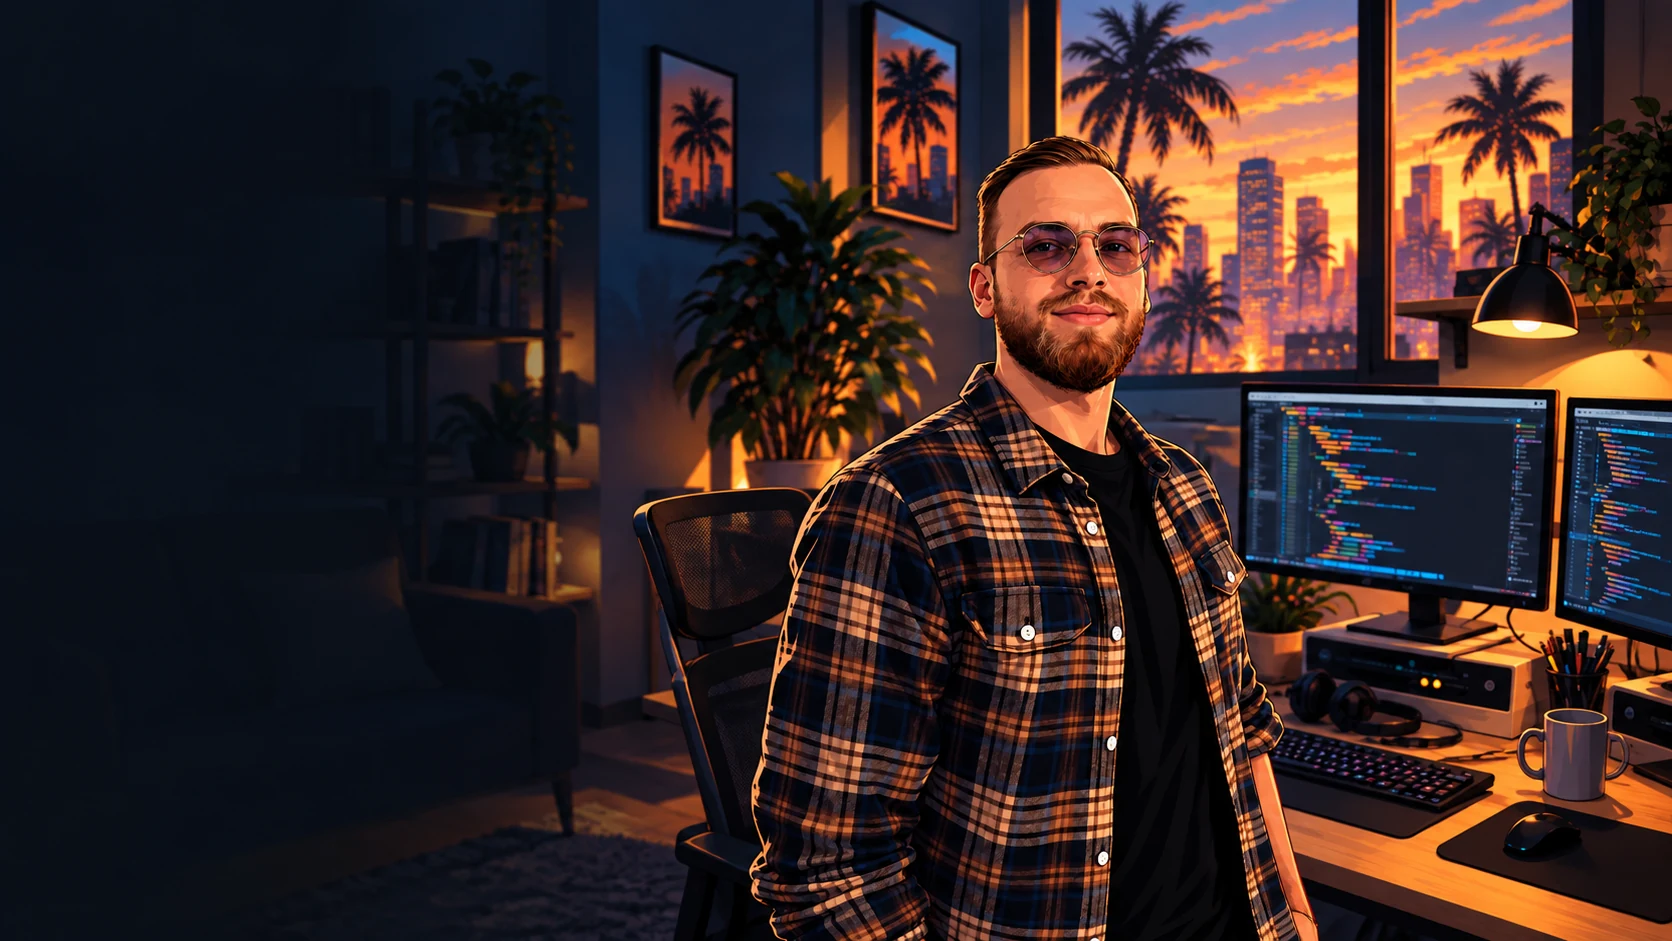
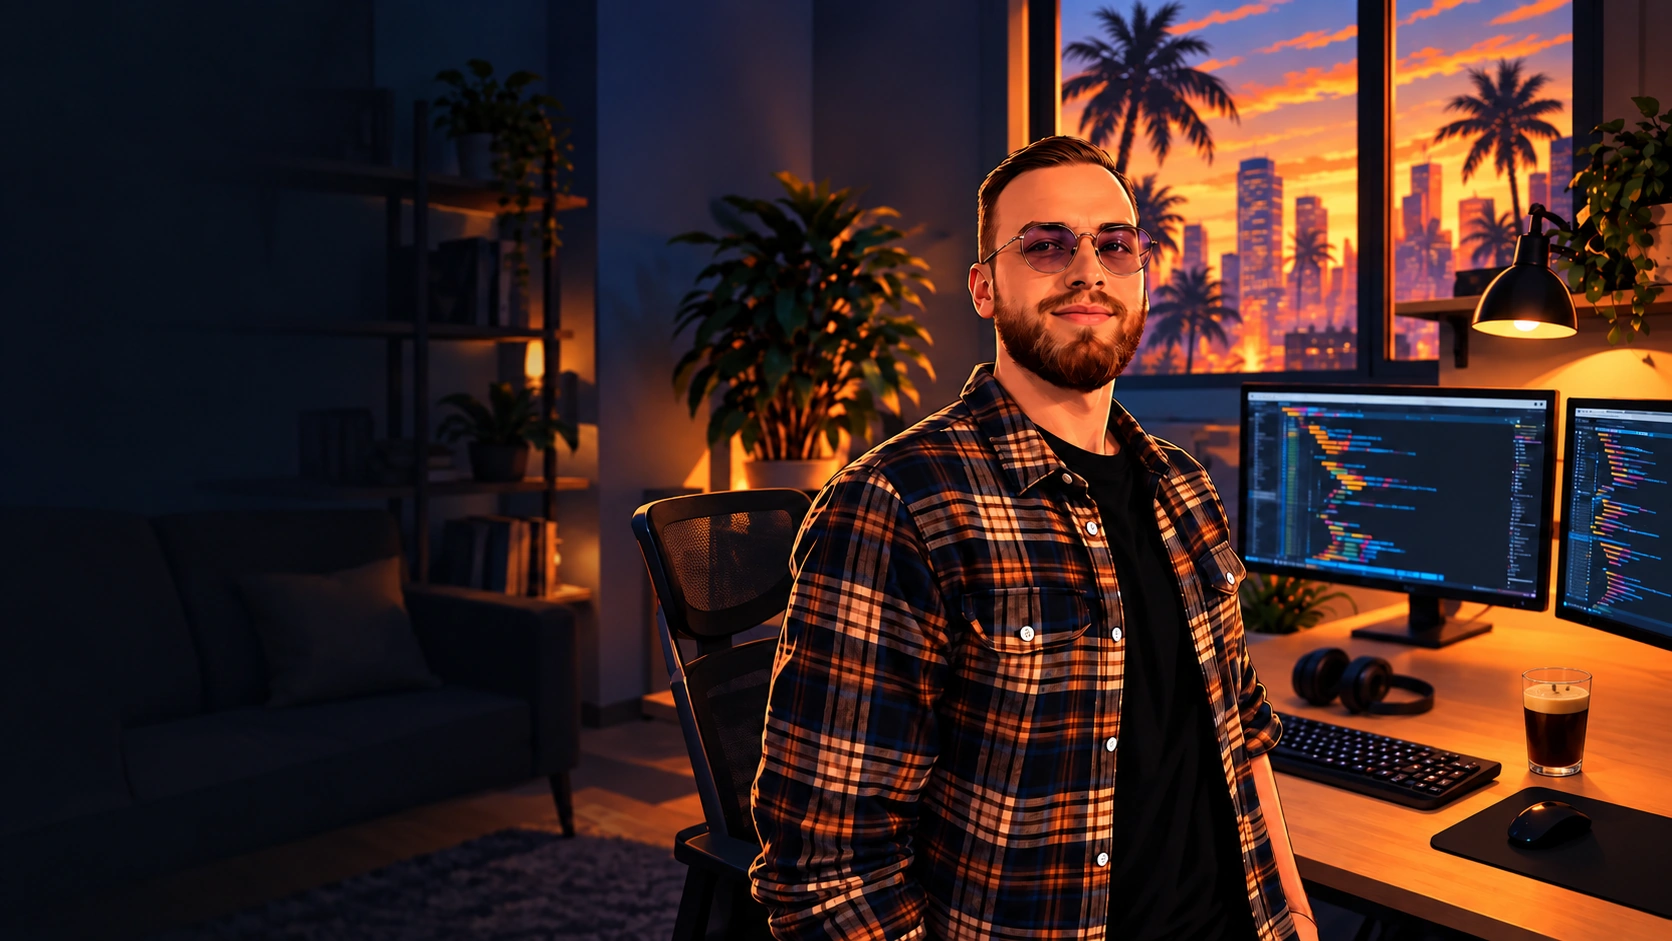
feat: Changed the hero background

diff --git a/my-portfolio/src/App.css b/my-portfolio/src/App.css
@@ -13,7 +13,7 @@
   --orange: #C96F32;
 
   --font-display: "Cinzel", serif;
-  --font-body: "Inter", sans-serif;
+  --font-body: "Manrope", sans-serif;
 }
 
 * {
@@ -28,6 +28,7 @@ body {
   margin: 0;
   background-color: var(--background);
   color: var(--text);
+  font-family: var(--font-body);
 }
 
 h1,

diff --git a/my-portfolio/src/components/Hero.jsx b/my-portfolio/src/components/Hero.jsx
@@ -1,4 +1,3 @@
-import ProfileImg from "../assets/hero-img-portrait.webp";
 import "../styles/Hero.css";
 
 function Hero() {
